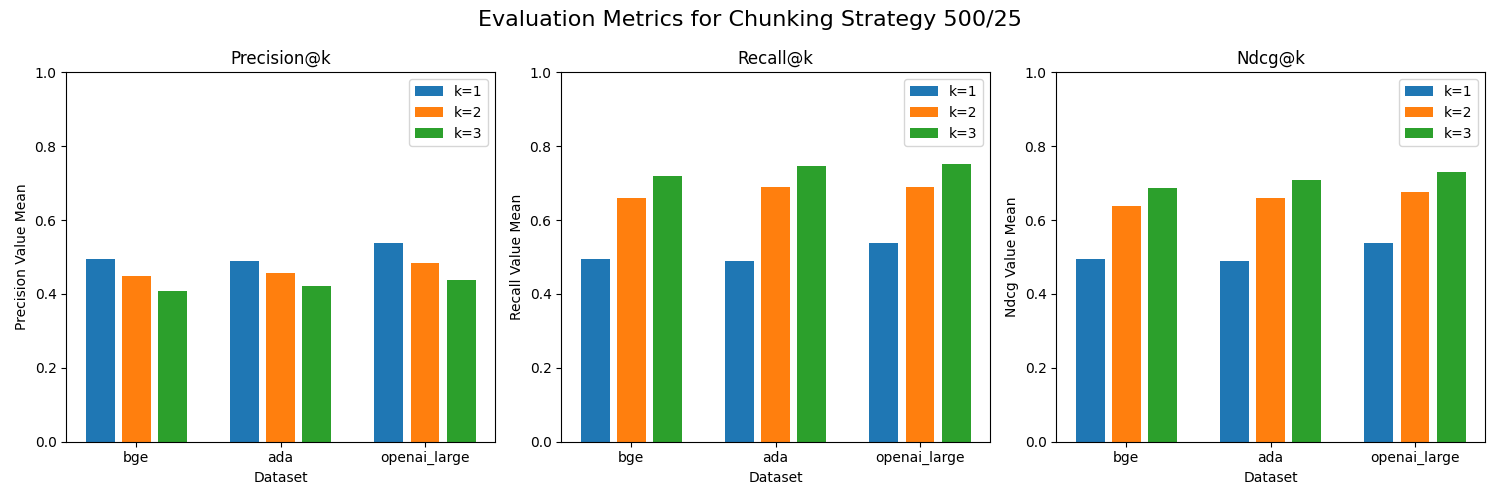
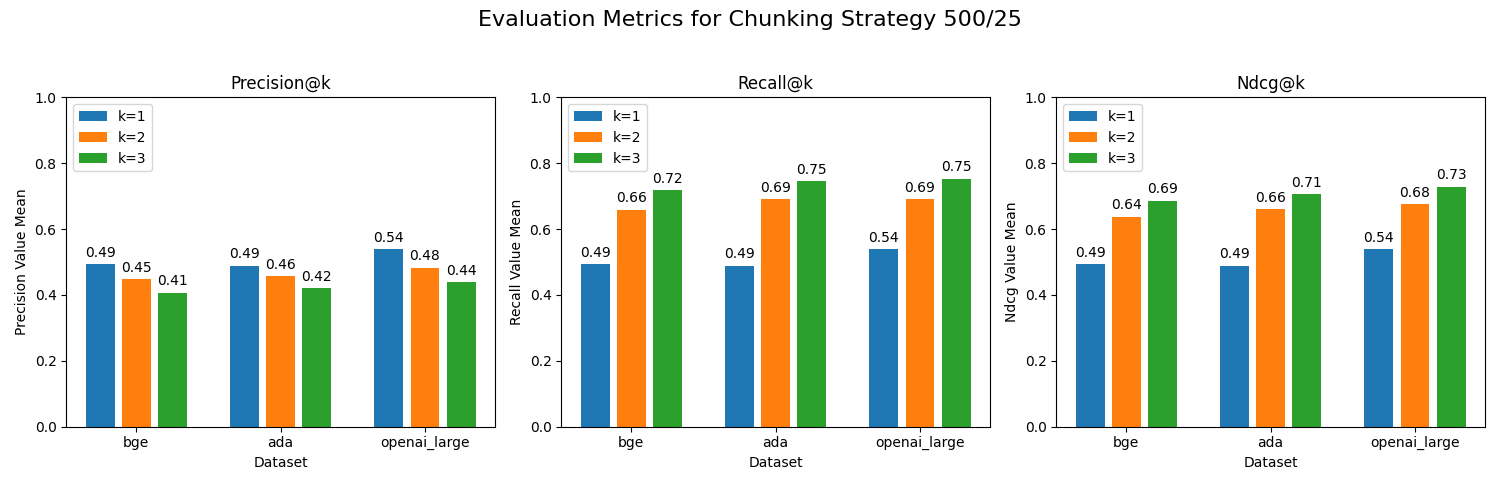
added bar values, moved legend to left

diff --git a/advanced/03-Offline-Evaluation.py b/advanced/03-Offline-Evaluation.py
@@ -457,21 +457,30 @@ for i, metric_name in enumerate(metrics):
     for j, k in enumerate(k_values):
         x = [j + dataset_index * (len(k_values) + 1) for dataset_index in range(len(datasets))]
         y = [pd.read_csv(dataset)[f"{metric_name}_at_{k}/score"].mean() for dataset in datasets]
-        axes[i].bar(x, y, width=0.8, label=f"k={k}")
-
+        bars = axes[i].bar(x, y, width=0.8, label=f"k={k}")
+        
+        # Add bar values
+        for bar in bars:
+            height = bar.get_height()
+            axes[i].annotate(f'{height:.2f}',
+                             xy=(bar.get_x() + bar.get_width() / 2, height),
+                             xytext=(0, 3),  # 3 points vertical offset
+                             textcoords="offset points",
+                             ha='center', va='bottom')
+        
     axes[i].set_xlabel("Dataset")
     axes[i].set_ylabel(f"{metric_name.capitalize()} Value Mean")
     axes[i].set_title(f"{metric_name.capitalize()}@k")
     axes[i].set_xticks([i * (len(k_values) + 1) + (len(k_values) - 1) / 2 for i in range(len(datasets))])
     axes[i].set_xticklabels(names)
     axes[i].set_ylim(0, 1)
-    axes[i].legend()
+    axes[i].legend(loc='upper left')
 
 # Add an overall title
 fig.suptitle("Evaluation Metrics for Chunking Strategy 500/25", fontsize=16)
 
-# Adjust the spacing between subplots
-plt.tight_layout()
+# Adjust the spacing between subplots and the overall title
+plt.tight_layout(rect=[0, 0.03, 1, 0.95])
 
 # Save the plot to a file
 plt.savefig("evaluation_metrics_plot_500_25.png")
